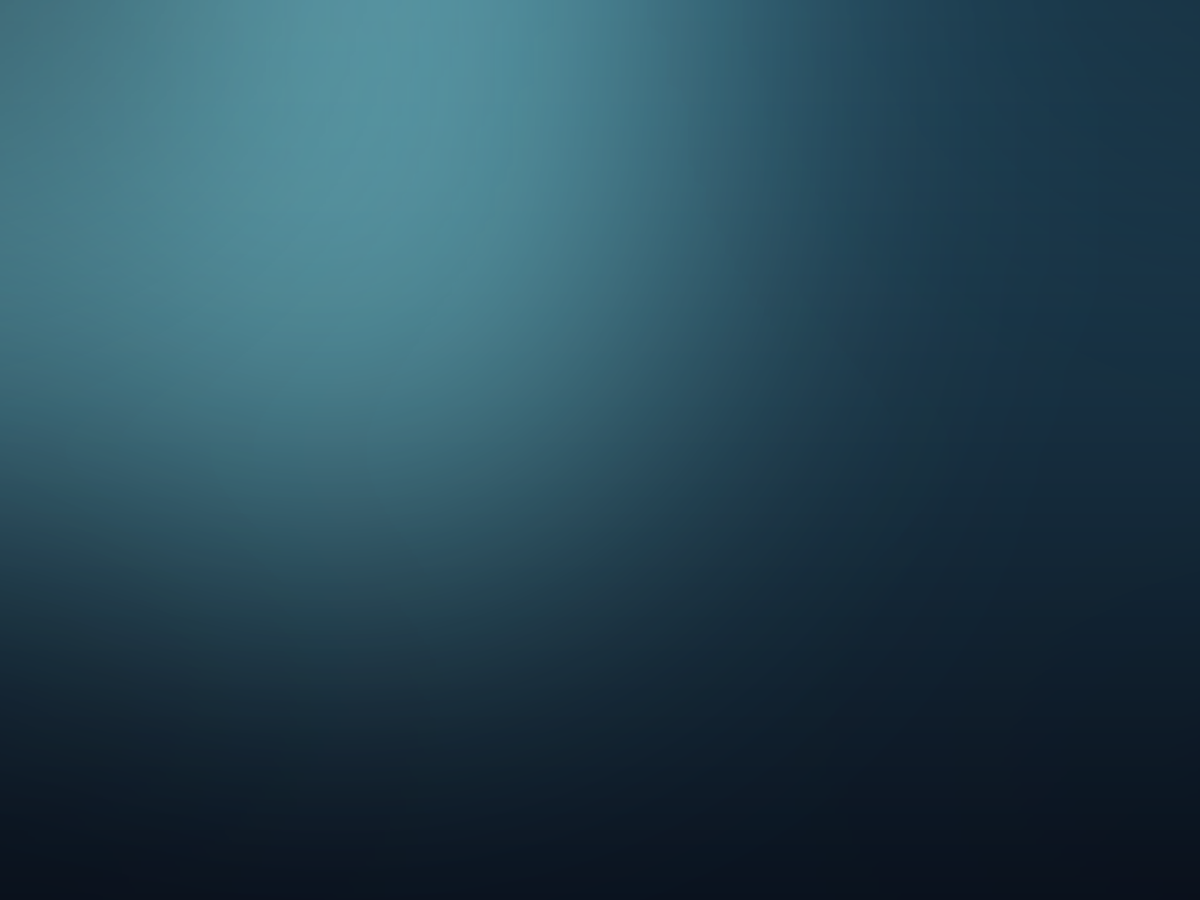
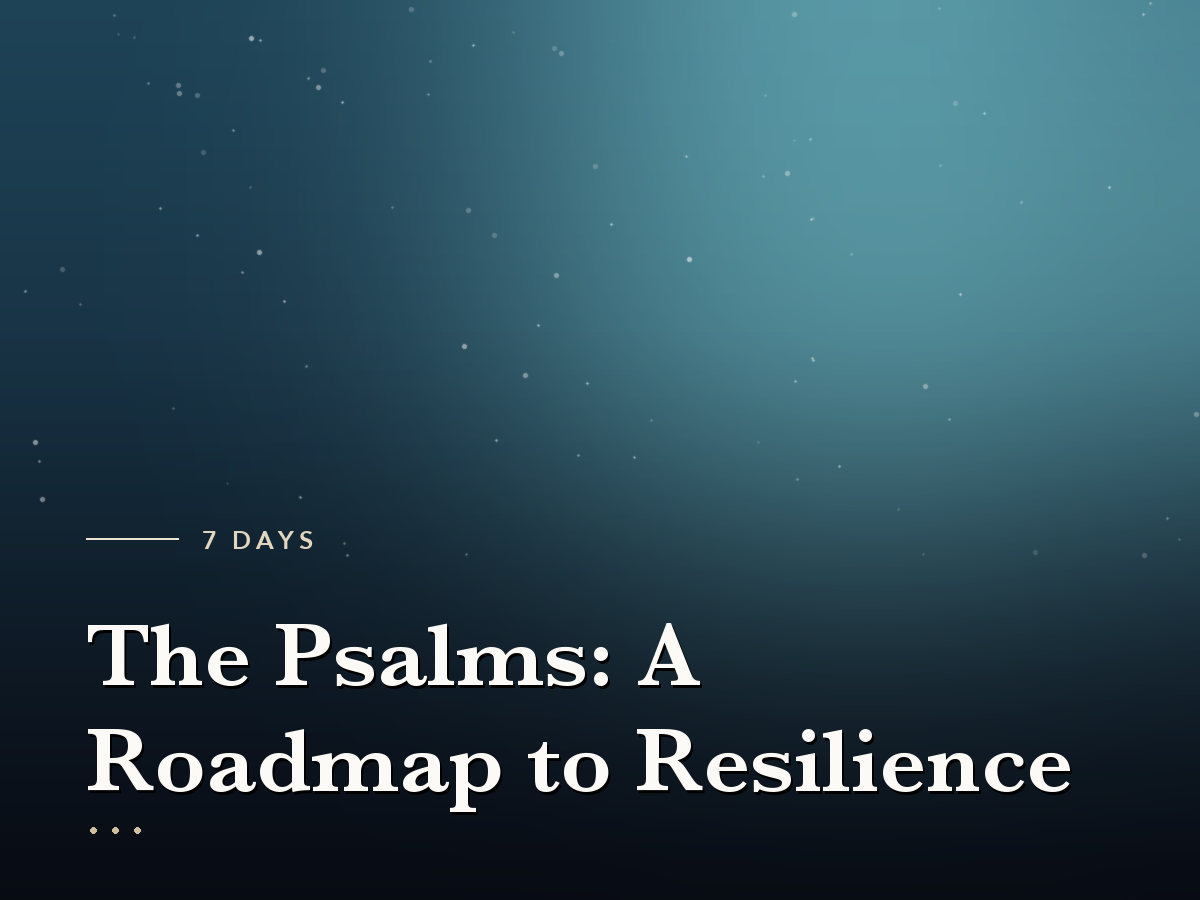
Put each plan's title on its cover and generate them from a script

diff --git a/scripts/make-plan-cover.py b/scripts/make-plan-cover.py
@@ -1,0 +1,150 @@
+#!/usr/bin/env python3
+"""
+Draws a cover for a reading plan.
+
+Every plan's artwork carries its own title, so a card is readable on its own and the
+Plans screen does not depend on a label being drawn over the image. Run this for any new
+plan rather than hand-making one, so they stay a set.
+
+    ./scripts/make-plan-cover.py --title "When Life Gets Hard" --days 7 --out cover.png
+
+The palette is chosen from the title when one is not given, so a plan keeps the same
+colours every time this is run.
+"""
+import argparse
+import hashlib
+import pathlib
+import random
+
+from PIL import Image, ImageChops, ImageDraw, ImageFilter, ImageFont
+
+W, H = 1200, 900
+MARGIN = 86
+
+SERIF = "/System/Library/Fonts/Supplemental/Baskerville.ttc"
+SANS = "/System/Library/Fonts/Avenir Next.ttc"
+
+# top, bottom, light. Deep and low-contrast: a title sits on these, and the card is small.
+PALETTES = {
+    "dawn": ((28, 32, 62), (9, 11, 22), (150, 96, 40)),
+    "water": ((30, 66, 86), (10, 18, 30), (70, 122, 126)),
+    "moss": ((30, 58, 48), (10, 20, 18), (88, 128, 82)),
+    "dusk": ((52, 34, 64), (14, 10, 22), (132, 80, 118)),
+    "ember": ((62, 34, 34), (18, 10, 12), (150, 76, 52)),
+}
+
+
+def lerp(a, b, t):
+    return tuple(round(a[i] + (b[i] - a[i]) * t) for i in range(3))
+
+
+def background(top, bottom, glow, seed):
+    """Gradient, a soft light, a scatter of grain, and a scrim for the text."""
+    img = Image.new("RGB", (W, H))
+    d = ImageDraw.Draw(img)
+    for y in range(H):
+        d.line([(0, y), (W, y)], fill=lerp(top, bottom, (y / H) ** 1.2))
+
+    # Screen, not blend: blending warm light into dark navy averages out to brown.
+    light = Image.new("RGB", (W, H), (0, 0, 0))
+    gx, gy = int(W * 0.72), int(H * 0.26)
+    ImageDraw.Draw(light).ellipse(
+        [gx - W * 0.30, gy - W * 0.30, gx + W * 0.30, gy + W * 0.30], fill=glow
+    )
+    img = ImageChops.screen(img, light.filter(ImageFilter.GaussianBlur(radius=170)))
+
+    # Flair: a faint scatter of light, denser near the glow. Seeded off the title so a
+    # plan's stars land in the same place every time.
+    rng = random.Random(seed)
+    stars = Image.new("RGB", (W, H), (0, 0, 0))
+    sd = ImageDraw.Draw(stars)
+    for _ in range(90):
+        x, y = rng.randrange(W), rng.randrange(int(H * 0.62))
+        r = rng.choice([1, 1, 1, 2])
+        v = rng.randint(40, 150)
+        sd.ellipse([x - r, y - r, x + r, y + r], fill=(v, v, v))
+    img = ImageChops.screen(img, stars.filter(ImageFilter.GaussianBlur(radius=0.6)))
+
+    # Scrim: the lower half darkens so the title stays legible whatever is behind it.
+    scrim = Image.new("L", (W, H), 0)
+    sdraw = ImageDraw.Draw(scrim)
+    for y in range(H):
+        t = max(0.0, (y - H * 0.34) / (H * 0.66))
+        sdraw.line([(0, y), (W, y)], fill=int(165 * (t**1.4)))
+    return Image.composite(Image.new("RGB", (W, H), (6, 7, 12)), img, scrim)
+
+
+def tracked(draw, xy, text, font, fill, tracking):
+    """PIL has no letter-spacing, and small caps need it to read as a label."""
+    x, y = xy
+    for ch in text:
+        draw.text((x, y), ch, font=font, fill=fill)
+        x += draw.textlength(ch, font=font) + tracking
+    return x
+
+
+def wrap(draw, text, font, width):
+    lines, line = [], ""
+    for word in text.split():
+        trial = f"{line} {word}".strip()
+        if draw.textlength(trial, font=font) <= width and len(lines) < 4:
+            line = trial
+        else:
+            lines.append(line)
+            line = word
+    if line:
+        lines.append(line)
+    return lines
+
+
+def render(title, days, palette, out):
+    seed = int(hashlib.sha256(title.encode()).hexdigest()[:8], 16)
+    name = palette or list(PALETTES)[seed % len(PALETTES)]
+    top, bottom, glow = PALETTES[name]
+
+    img = background(top, bottom, glow, seed)
+    d = ImageDraw.Draw(img)
+
+    label = ImageFont.truetype(SANS, 25, index=2)  # Demi Bold
+    serif = ImageFont.truetype(SERIF, 92, index=4)  # SemiBold
+
+    # Title first: it decides how much room everything above it gets.
+    lines = wrap(d, title, serif, W - MARGIN * 2)
+    while len(lines) > 3 and serif.size > 58:
+        serif = ImageFont.truetype(SERIF, serif.size - 8, index=4)
+        lines = wrap(d, title, serif, W - MARGIN * 2)
+
+    line_h = int(serif.size * 1.16)
+    block_h = line_h * len(lines)
+    baseline = H - MARGIN - block_h
+
+    # Flair: a hairline rule, then the day count in tracked small caps above the title.
+    rule_y = baseline - 64
+    d.line([(MARGIN, rule_y), (MARGIN + 92, rule_y)], fill=(236, 226, 206), width=2)
+    tracked(d, (MARGIN + 116, rule_y - 14), f"{days} DAYS", label, (226, 214, 192), 4.5)
+
+    for i, line in enumerate(lines):
+        y = baseline + i * line_h
+        # A soft drop shadow, so the serif holds up over the lighter part of the glow.
+        d.text((MARGIN + 2, y + 3), line, font=serif, fill=(0, 0, 0))
+        d.text((MARGIN, y), line, font=serif, fill=(252, 250, 246))
+
+    # Flair: three small marks closing the block, like a printer's device.
+    y = H - MARGIN + 16
+    for i in range(3):
+        cx = MARGIN + 7 + i * 22
+        d.ellipse([cx - 3, y - 3, cx + 3, y + 3], fill=(206, 190, 160))
+
+    pathlib.Path(out).parent.mkdir(parents=True, exist_ok=True)
+    img.save(out, "PNG", optimize=True)
+    return name
+
+
+if __name__ == "__main__":
+    p = argparse.ArgumentParser()
+    p.add_argument("--title", required=True)
+    p.add_argument("--days", type=int, required=True)
+    p.add_argument("--palette", choices=sorted(PALETTES))
+    p.add_argument("--out", required=True)
+    a = p.parse_args()
+    print(f"{a.out}  palette={render(a.title, a.days, a.palette, a.out)}")
